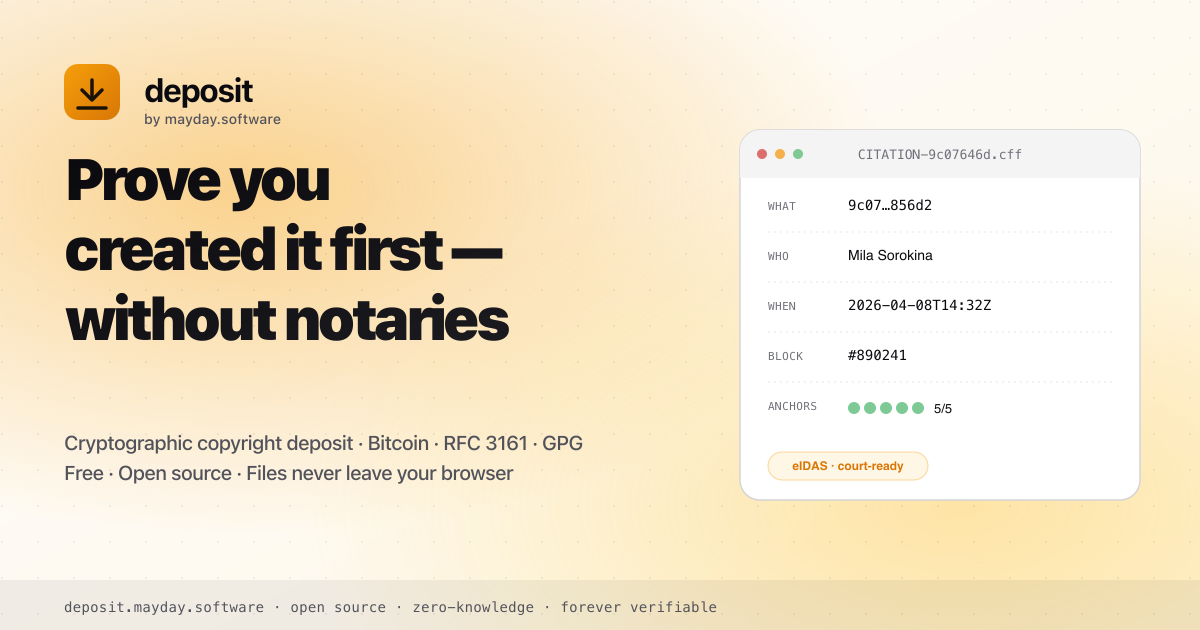
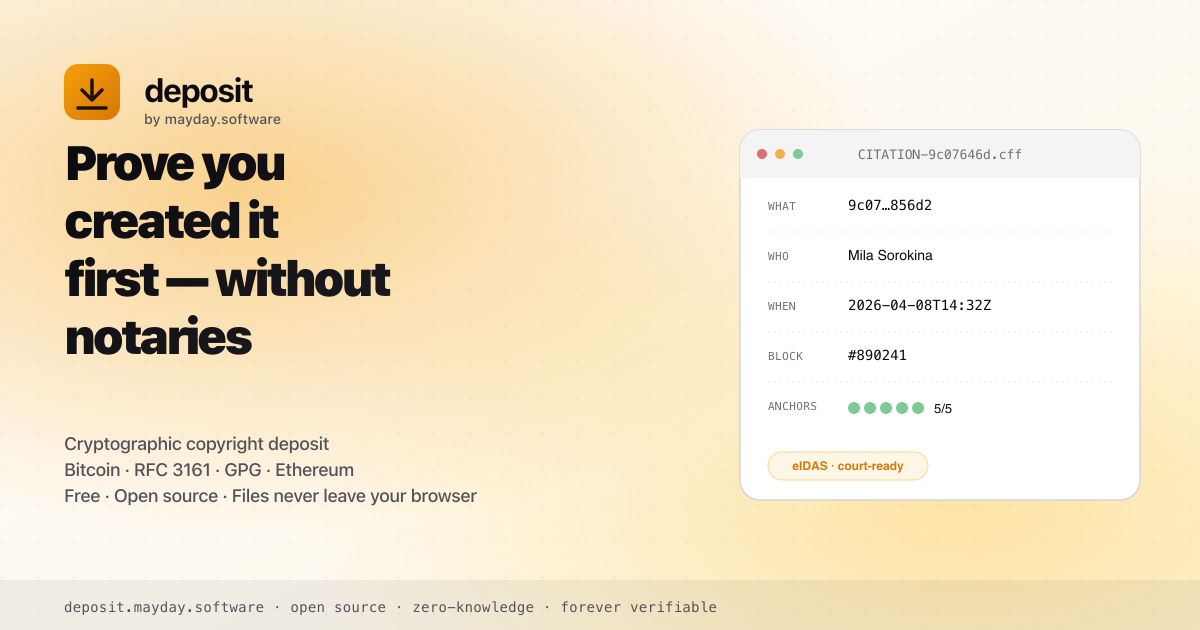
feat: update og-image SVG for improved headline and subhead clarity; adjust public topbar styles for better layout

Changed region(s): [[0.0308, 0.2111, 0.4317, 0.573], [0.0308, 0.6937, 0.4933, 0.8143]]

diff --git a/frontend/src/app/layout/components/public-topbar.ts b/frontend/src/app/layout/components/public-topbar.ts
@@ -183,6 +183,7 @@ import { PwaService } from '@/app/shared/services/pwa.service';
                 top: 56px;
                 left: 0;
                 right: 0;
+                flex: none;
                 flex-direction: column;
                 align-items: stretch;
                 gap: 0;
@@ -194,7 +195,8 @@ import { PwaService } from '@/app/shared/services/pwa.service';
                 pointer-events: none;
                 transition: opacity var(--dur-fast) var(--ease-out), transform var(--dur-fast) var(--ease-out);
             }
-            .links.is-open { opacity: 1; transform: translateY(0); pointer-events: auto; }
+            .links:not(.is-open) { display: none; }
+            .links.is-open { display: flex; opacity: 1; transform: translateY(0); pointer-events: auto; }
             .link { padding: var(--sp-3); border-radius: var(--r-sm); }
             .seg { display: none; }
         }
